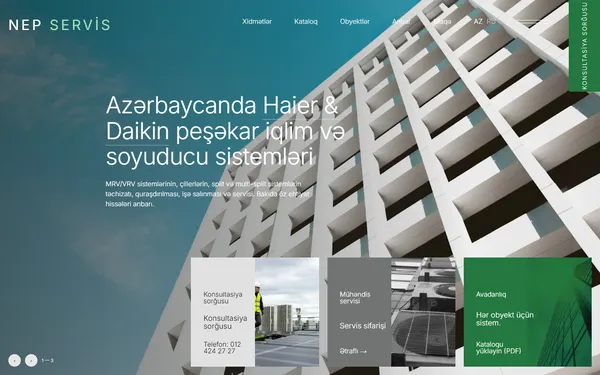
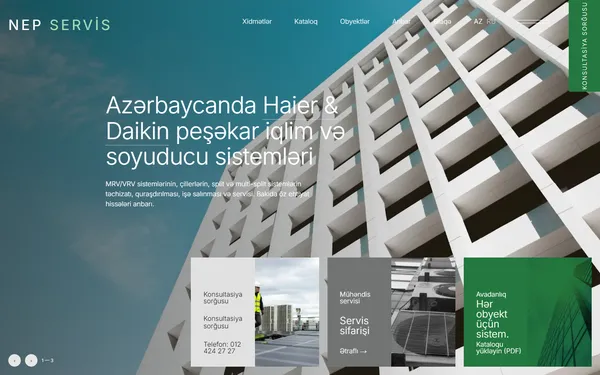
Витрина: 09-b — заголовок 1-й тизер-карточки без обрезки, пропорции остальных как были

Changed region(s): [[0.78, 0.792, 0.9, 0.9093], [0.33, 0.8213, 0.42, 0.88], [0.57, 0.8507, 0.66, 0.9093]]

diff --git a/09-brainboxai-b/index.html b/09-brainboxai-b/index.html
@@ -141,7 +141,7 @@ h1{font-size:calc(var(--u)*3.5);max-width:700px}
 .tz small,.tz b,.tz span{max-width:48%;position:relative}
 .tz+.tz{background:#727473;color:#fff}.tz.red{background:var(--r);color:#fff}
 .tz img{width:50%}.tz small{margin:0;opacity:1;font-size:var(--u);line-height:1;position:relative}
-.tz b{font-size:calc(var(--u)*1.125);line-height:1.05;font-weight:300;max-height:calc(var(--u)*6);overflow:hidden;overflow-wrap:break-word;max-width:56%}
+.tz b{font-size:calc(var(--u)*1.5);line-height:1;font-weight:300;max-height:calc(var(--u)*6);overflow:hidden}.tz:first-child b{font-size:var(--u);line-height:1.1;overflow-wrap:break-word;hyphens:auto}
 .tz span{margin:0;font-size:var(--u);line-height:1}
 .tz>small{margin-top:calc(var(--u)*5 - 30px)}
 .w{width:calc((100% - 40px)*.8333)}
@@ -179,7 +179,7 @@ body{font-size:var(--u)}h2,.card h3{font-size:calc(var(--u)*2.25)}
  .hero{min-height:0;height:auto;padding-bottom:20px;max-width:100vw}.hero .w{padding-top:100px;position:relative}h1{font-size:28px;line-height:1.1;max-width:calc(100% - 31px)}.hsub{display:none}.tab{min-height:0}
  .teasers{position:relative;right:auto;bottom:auto;display:flex;gap:20px;overflow-x:auto;scroll-snap-type:x mandatory;scroll-padding-left:59px;padding:40px 20px 0;width:100%;max-width:100vw;scrollbar-width:none}.teasers::-webkit-scrollbar{display:none}
  .tz{flex:0 0 297px;width:297px;height:196px;padding:60px 20px 20px;justify-content:flex-end;scroll-snap-align:start;font-size:14px;background:#e1e1e1;color:var(--k)}.tz+.tz{background:#727473;color:#fff}.tz.red{background:var(--r);color:#fff;order:2}.tz:first-child{order:1}.tz:nth-child(2){order:3}
- .tz small,.tz b,.tz span{max-width:50%}.tz small{font-size:16px;opacity:1;margin:0 0 4px}.tz b{font-size:18px;line-height:1;max-width:56%}.tz span{font-size:14px;margin-top:8px}
+ .tz small,.tz b,.tz span{max-width:50%}.tz small{font-size:16px;opacity:1;margin:0 0 4px}.tz b{font-size:20px;line-height:1}.tz:first-child b{font-size:16px;line-height:1.1;overflow-wrap:break-word;hyphens:auto}.tz span{font-size:14px;margin-top:8px}
  .trust{max-width:100vw}.ctr{display:none}.tab{width:60px}
  .card{min-height:620px}.art{height:52%}.card .unit{scale:1.35;margin-top:20px}
  .hero:before,.hero:after{width:120%;height:46%}

diff --git a/09-brainboxai-b/ru/index.html b/09-brainboxai-b/ru/index.html
@@ -141,7 +141,7 @@ h1{font-size:calc(var(--u)*3.5);max-width:700px}
 .tz small,.tz b,.tz span{max-width:48%;position:relative}
 .tz+.tz{background:#727473;color:#fff}.tz.red{background:var(--r);color:#fff}
 .tz img{width:50%}.tz small{margin:0;opacity:1;font-size:var(--u);line-height:1;position:relative}
-.tz b{font-size:calc(var(--u)*1.125);line-height:1.05;font-weight:300;max-height:calc(var(--u)*6);overflow:hidden;overflow-wrap:break-word;max-width:56%}
+.tz b{font-size:calc(var(--u)*1.5);line-height:1;font-weight:300;max-height:calc(var(--u)*6);overflow:hidden}.tz:first-child b{font-size:var(--u);line-height:1.1;overflow-wrap:break-word;hyphens:auto}
 .tz span{margin:0;font-size:var(--u);line-height:1}
 .tz>small{margin-top:calc(var(--u)*5 - 30px)}
 .w{width:calc((100% - 40px)*.8333)}
@@ -179,7 +179,7 @@ body{font-size:var(--u)}h2,.card h3{font-size:calc(var(--u)*2.25)}
  .hero{min-height:0;height:auto;padding-bottom:20px;max-width:100vw}.hero .w{padding-top:100px;position:relative}h1{font-size:28px;line-height:1.1;max-width:calc(100% - 31px)}.hsub{display:none}.tab{min-height:0}
  .teasers{position:relative;right:auto;bottom:auto;display:flex;gap:20px;overflow-x:auto;scroll-snap-type:x mandatory;scroll-padding-left:59px;padding:40px 20px 0;width:100%;max-width:100vw;scrollbar-width:none}.teasers::-webkit-scrollbar{display:none}
  .tz{flex:0 0 297px;width:297px;height:196px;padding:60px 20px 20px;justify-content:flex-end;scroll-snap-align:start;font-size:14px;background:#e1e1e1;color:var(--k)}.tz+.tz{background:#727473;color:#fff}.tz.red{background:var(--r);color:#fff;order:2}.tz:first-child{order:1}.tz:nth-child(2){order:3}
- .tz small,.tz b,.tz span{max-width:50%}.tz small{font-size:16px;opacity:1;margin:0 0 4px}.tz b{font-size:18px;line-height:1;max-width:56%}.tz span{font-size:14px;margin-top:8px}
+ .tz small,.tz b,.tz span{max-width:50%}.tz small{font-size:16px;opacity:1;margin:0 0 4px}.tz b{font-size:20px;line-height:1}.tz:first-child b{font-size:16px;line-height:1.1;overflow-wrap:break-word;hyphens:auto}.tz span{font-size:14px;margin-top:8px}
  .trust{max-width:100vw}.ctr{display:none}.tab{width:60px}
  .card{min-height:620px}.art{height:52%}.card .unit{scale:1.35;margin-top:20px}
  .hero:before,.hero:after{width:120%;height:46%}
